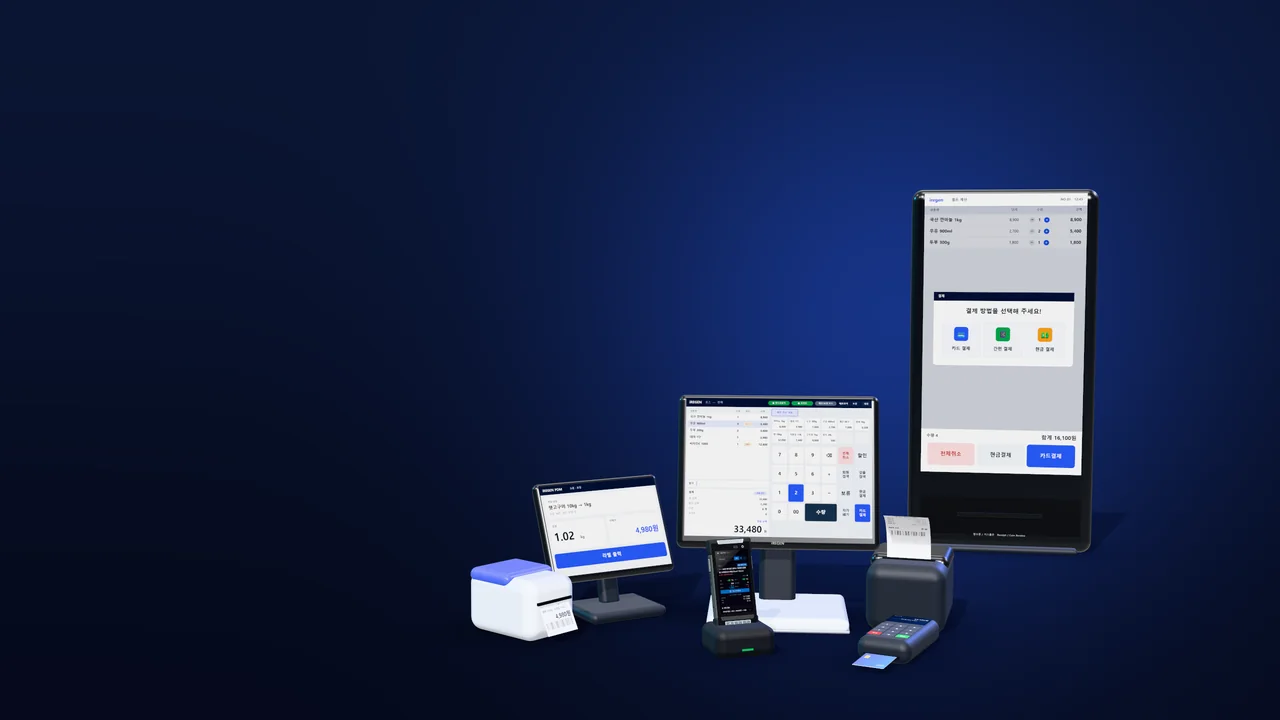
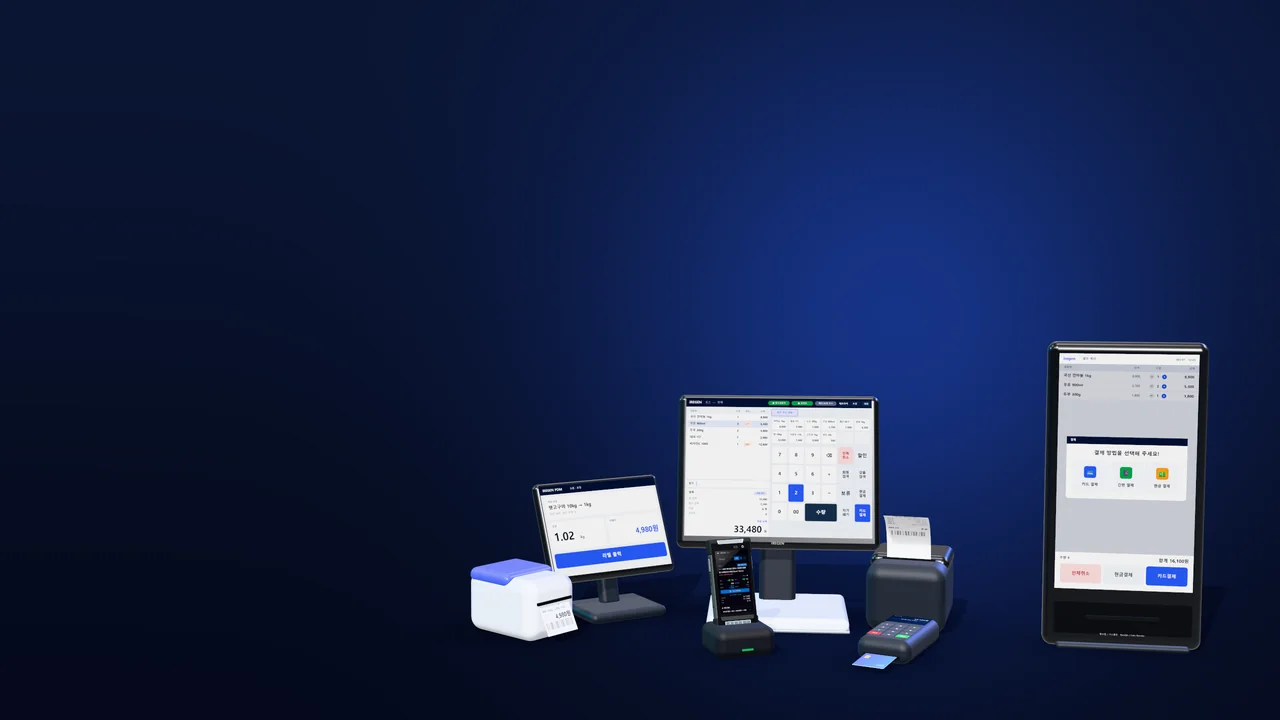
장비 배너: 키오스크를 앞줄로 — 바닥을 카드 단말기 본체 아래 끝에 맞춤, 키오스크 화면 위 테두리 바로잡음, 모바일 가운데

Changed region(s): [[0.6875, 0.2444, 0.9688, 0.9167]]

diff --git a/index.html b/index.html
@@ -11,7 +11,7 @@
 <link rel="icon" href="assets/img/favicon.svg" type="image/svg+xml">
 <link rel="preconnect" href="https://cdn.jsdelivr.net">
 <link rel="stylesheet" href="https://cdn.jsdelivr.net/gh/orioncactus/pretendard@v1.3.9/dist/web/variable/pretendardvariable-dynamic-subset.min.css">
-<link rel="stylesheet" href="assets/css/style.css?v=11">
+<link rel="stylesheet" href="assets/css/style.css?v=12">
 </head>
 <body>
 <div class="scroll-progress" aria-hidden="true"></div>
@@ -47,7 +47,7 @@
 <main>
 <!-- ============ 히어로 ============ -->
 <section class="hero" aria-label="아이리젠 소개">
-  <div class="hero-photo" aria-hidden="true"><picture><source media="(max-width: 760px)" srcset="assets/img/hero-devices-sm.webp?v=4"><img src="assets/img/hero-devices.webp?v=4" alt="" width="2560" height="1440" decoding="async"></picture></div>
+  <div class="hero-photo" aria-hidden="true"><picture><source media="(max-width: 760px)" srcset="assets/img/hero-devices-sm.webp?v=6"><img src="assets/img/hero-devices.webp?v=6" alt="" width="2560" height="1440" decoding="async"></picture></div>
   <div class="hero-grid" aria-hidden="true"></div>
   <div class="hero-orb o1" aria-hidden="true"></div>
   <div class="hero-orb o2" aria-hidden="true"></div>

diff --git a/assets/css/style.css b/assets/css/style.css
@@ -520,7 +520,7 @@ body.nav-open .mnav { transform: none; }
 @media (max-width: 760px) {
   .container { padding: 0 20px; }
   .hero-photo { background: #08102b; }
-  .hero-photo picture { position: absolute; right: -8%; bottom: 80px; width: 150%; -webkit-mask-image: linear-gradient(180deg, transparent 0%, #000 22%); mask-image: linear-gradient(180deg, transparent 0%, #000 22%); }
+  .hero-photo picture { position: absolute; right: -5%; bottom: 80px; width: 160%; -webkit-mask-image: linear-gradient(180deg, transparent 0%, #000 22%); mask-image: linear-gradient(180deg, transparent 0%, #000 22%); }
   .hero-photo img { height: auto; object-fit: contain; }
   .hero-photo::after { background: linear-gradient(180deg, rgba(5,10,28,.96) 0%, rgba(5,10,28,.8) 42%, rgba(5,10,28,0) 64%); }
   .section { padding: 84px 0; }
